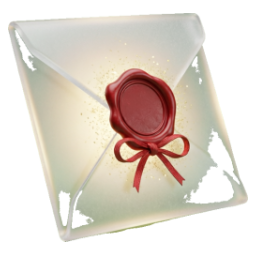
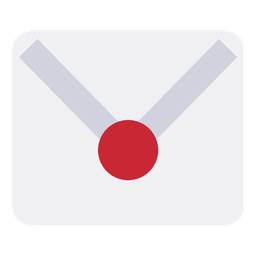
feat(h5): 「邀请」按钮改成透明灰板 + 白字，classic 那张邀请图标换成平面信封
用户口径：「邀请两个字的背景边框做成透明灰色，图标再换一个，平面的」。
板色 rgb(46,46,52)/α=0.62 与字色只能是浅色都是量出来的：这颗按钮整块压在海报亮区
（覆盖范围内底图亮度 L=0.005~0.797），中灰/浅灰配白字数学上过不了 AA，深红字在这块板上只有 1.00~1.57:1。
不写 backdrop-filter，让那串对比度读数就是逐像素真值；新增的 1px 边框由四个方向内边距各收 1px 补回去，
所以按钮外沿与改之前是同一个盒子（headless Chrome 实测 66.45x38.38 vs 66.55x38.47 设备px）。

图标「平面的」拆成两条机器口径：4bit 量化色阶层数 54（被换掉的立体磨砂那张 229）、
前 8 大色占墨迹 94.9%（那张 0.76%）；出图脚本 qa/gen_flat_invite_icon.py 一并入库，跑一遍字节复现。

测试：invite-banner-art.spec.js 17→20（旧的「按钮保持平台主红」翻成「一出现就该红」+ 三条新钉），
invite-icon-theme.spec.js 26→29。H5 207 例 / 20 文件、后台 167、后端 unit 269/1760 当场全绿；
反证 14 档逐档只红在点名用例，跑完 6 个文件 md5 逐位 SAME。详见 RUNBOOK §7.44。

diff --git a/sinan-art-source/tests/invite-banner-art.spec.js b/sinan-art-source/tests/invite-banner-art.spec.js
@@ -16,6 +16,20 @@ import { resolve } from 'node:path'
  *   · 标题行盒内最坏 18.46:1、副标行盒内最坏 8.25:1；§7.42 旧渲染基线 8.28:1 / 3.32:1 ⇒ 只升不降
  *   · 图里「白字对比掉到 4.5:1 以下」的最左列：标题行 x=236、副标行 x=226 ⇒ 副标再加一个字就踩亮区
  *
+ * 2026-10-16 再改一处（RUNBOOK §7.44）：那颗「邀请」按钮从 #C00000 实底 + 白字换成**透明灰 + 白字**。
+ * 中途我先按「液态玻璃白 + 深红字」做过一版（α=0.85 那组数字见台账），用户随后把口径改成"透明灰色"，
+ * 于是那版连同 backdrop-filter 一起被换掉 —— 两版的旧钉都留在下面，写成"一出现就该红"。
+ * 灰板压在深色海报上，按钮覆盖范围内底图亮度跨度是 L=0.005~0.797（右端是玉璧高光），所以：
+ *   白字最坏点（逐像素，不带 blur）：α=0.55→4.20、0.58→4.51、0.62→4.98、0.65→5.37（AA 线 4.5）
+ *   按钮整框（含上下沿）最坏 4.64:1；把按钮往左扩到 x=200 各列仍 ≥4.5 ⇒ 标签加到 5 字以内不必重量
+ *   同一个合成下深红 #C00000 字最坏只有 1.00~1.57:1 ⇒ 透明灰底上白字是唯一站得住的选择
+ *   旧渲染是 6.48:1（实底红 + 白字，与底图无关）⇒ 换透明灰后降到 4.98:1，仍过 AA 但这是**降**，台账里写明
+ *
+ * 上面那几行是**离线 GD** 按 CSS 几何合成的读数。落位后又用 headless Chrome（CDP，390x844/dpr2）走真排版复量了一遍：
+ * 「邀请」两字的真实行盒（29x16 设备px）上最坏 **5.12:1**，整块板子外接框上最坏 **4.69:1** —— 两套独立实现互相对上，才算数。
+ * 复量还推翻了我自己写的一条注释：只把横向内边距从 18 收到 17 时，外沿比改之前**高 2.6 设备px**（上下两条边框没补回来），
+ * 所以内边距是**四个方向各收 1px**（`7px 17px`），改完之后新旧外沿差 0.1px。
+ *
  * jsdom 量不到 ::before 伪元素，也量不到 px→vw 之后的长度，所以这里钉的是参数和文案，实测数字看台账。
  */
 
@@ -110,8 +124,40 @@ describe('文字改成压在深底上的浅色：旧深红/棕色不许改回来
     expect(code(BANNER)).not.toMatch(/rgba\(\s*80,\s*50,\s*20/)
   })
 
-  it('按钮保持平台主红：换深色海报没把它一起改没', () => {
-    expect(code(blockOf('&__btn'))).toMatch(/background:\s*#C00000/)
+  it('按钮不再是一整块实色：既不许回到 #C00000 实底，也不许做成实色灰块', () => {
+    const btn = code(blockOf('&__btn'))
+    // §7.43 的「实色红底 + 白字」和这一轮中途试过的「乳白玻璃 + 深红字」都翻成方向钉：出现就该红
+    expect(btn, '按钮底色回到实色红 = 透明灰口径被推回去').not.toMatch(/background:\s*#C00000/)
+    expect(btn, '底色必须是 rgba 半透明，α=1 就成实色灰块了').toMatch(/background:\s*rgba\(/)
+    expect(btn, '乳白玻璃底（rgba(255,255,255,.x)）已经不是本轮口径').not.toMatch(/background:\s*rgba\(255,\s*255,\s*255/)
+    expect(btn, '深红字压在透明灰上只有 1.00~1.57:1，等于看不见').not.toMatch(/color:\s*#C00000/i)
+  })
+
+  it('透明灰这块板：中性深灰 + α≥0.62 + 1px 半透明亮边 + 内高光', () => {
+    const btn = code(blockOf('&__btn'))
+    const m = /background:\s*rgba\(\s*46,\s*46,\s*52,\s*([\d.]+)\s*\)/.exec(btn)
+    expect(m, '按钮底不是那个量出来的中性灰 rgb(46,46,52)').not.toBeNull()
+    const alpha = Number(m[1])
+    // 下界 0.62：白字最坏点 α=0.58 只有 4.51:1、0.62 才 4.98:1（AA 线 4.5，按钮整框最坏 4.64:1）
+    expect(alpha, 'α 低于 0.62 就踩破 4.5:1（底下海报右端有玉璧高光，最坏点在按钮上沿）').toBeGreaterThanOrEqual(0.62)
+    expect(alpha, 'α=1 就不是"透明"灰了').toBeLessThan(1)
+    expect(btn).toMatch(/color:\s*#FFFFFF\b/i)
+    expect(btn).toMatch(/border:\s*1px\s+solid\s+rgba\(255,\s*255,\s*255,\s*[\d.]+\)/)
+    expect(btn).toMatch(/box-shadow:[^;]*inset/)
+  })
+
+  it('按钮这块不靠 backdrop-filter 撑可读性：写了 blur，上面那串对比度数字就不再是真机读数', () => {
+    expect(code(blockOf('&__btn'))).not.toMatch(/backdrop-filter/)
+  })
+
+  it('按钮外沿没被新边框撑大：1px 边框 + 四个方向内边距各收 1px，海报上被它盖住的那片像素区域没变', () => {
+    const btn = code(blockOf('&__btn'))
+    // 竖向从 8 收成 7、横向从 18 收成 17（各让 1px 给新边框）。写成简写整串是因为 px() 只取第一个数。
+    // 只收左右那一版（8px 17px）浏览器实测外沿比旧版高 2.6 设备px —— 上下两条边框没补回来，
+    // 被盖住的海报区域会长一圈，量对比度用的几何前提就废了，所以这里连 7 一起钉死。
+    expect(btn, '按钮内边距应是 7px 17px（四个方向各让 1px 给边框，外沿才是同一个盒子）').toMatch(/padding:\s*7px\s+17px/)
+    expect(btn).toMatch(/border:\s*1px\s+solid/)
+    expect(px(btn, 'font-size')).toBe(14)
   })
 })
 

diff --git a/sinan-art-source/tests/invite-icon-theme.spec.js b/sinan-art-source/tests/invite-icon-theme.spec.js
@@ -14,6 +14,11 @@ import zlib from 'node:zlib'
  * 主题 type 的 'svg' 只是标签。邀新卡原来是五套主题里唯一一个还在吃 AppIcon 矢量图的功能入口，
  * 所以「换成位图」这件事 = 给五个主题的 features.invite 各补一条 { type:'image' }。
  *
+ * 2026-10-16 §7.44 又改一次：用户要「图标再换一个，平面的」，并明确只换**现在看到的这一张**
+ * （= classic 家族的 modern-invite.png），另四套仍留立体/磨砂那张。所以这一节新增的三条钉
+ * 只对着 modern-invite.png 生效：平面度（色阶层数 + 纯色集中度）、墨迹体量不掉档、主体仍是家族浅灰。
+ * 「五套都要位图」那条口径没变，五张互不相同也没变。
+ *
  * 位图带不带透明通道、有没有把绿幕一起抠进来，jsdom 量不到，这里直接解 PNG 头 + 解 IDAT 自己数，
  * 这样「图标糊成一坨不透明方块」「边上镶一圈荧光绿」这类缺陷能在 CI 里红，而不是等人眼看。
  */
@@ -101,6 +106,45 @@ function alphaProfile(file) {
   return { w, h, solidRatio: solid / n, softRatio: translucent / n, greenRatio: green / n }
 }
 
+// ---------------- 平面度与墨迹体量（§7.44 起 classic 那张换成平面图标） ----------------
+/**
+ * 「平面的」不能靠人眼验收，这里翻译成两条能数的口径：
+ *   · 色阶层数：把墨迹按每通道 4bit 量化后有几种 —— 平面 = 少数几个纯色块，立体 = 连续渐变
+ *   · 纯色集中度：最常见的 8 个精确颜色盖了多少比例的墨迹 —— 平面高、立体低
+ * 两条阈值都是当场量出来对照后取的中段（见 RUNBOOK §7.44）：
+ *   新平面图 modern-invite = 54 阶 / 94.9%，被它替换掉的立体图 = 229 阶 / 0.8% ⇒ 中间隔着 4 倍，不会误伤
+ */
+function flatProfile (file) {
+  const { w, h, px } = decodeRgba(file)
+  const q = new Map(); const exact = new Map()
+  let ink = 0
+  for (let i = 0; i < w * h * 4; i += 4) {
+    if (px[i + 3] <= 51) continue
+    ink++
+    const qk = (px[i] >> 4 << 8) | (px[i + 1] >> 4 << 4) | (px[i + 2] >> 4)
+    q.set(qk, (q.get(qk) || 0) + 1)
+    const ek = (px[i] << 16) | (px[i + 1] << 8) | px[i + 2]
+    exact.set(ek, (exact.get(ek) || 0) + 1)
+  }
+  const top8 = [...exact.values()].sort((a, b) => b - a).slice(0, 8).reduce((s, v) => s + v, 0)
+  return { ink, q4: q.size, top8Ratio: top8 / ink }
+}
+
+/** 墨迹外接框：画布同是 256，但墨迹只占一半的图标在 28px 里会明显比兄弟小一圈 */
+function inkBox (file) {
+  const { w, h, px } = decodeRgba(file)
+  let minx = w, miny = h, maxx = -1, maxy = -1
+  for (let y = 0; y < h; y++) {
+    for (let x = 0; x < w; x++) {
+      if (px[(y * w + x) * 4 + 3] > 51) {
+        if (x < minx) minx = x; if (x > maxx) maxx = x
+        if (y < miny) miny = y; if (y > maxy) maxy = y
+      }
+    }
+  }
+  return { w: maxx - minx + 1, h: maxy - miny + 1 }
+}
+
 // ---------------- 主题表本身 ----------------
 const storeSrc = readFileSync(resolve(ROOT, 'src/stores/iconTheme.js'), 'utf8').replace(/\r\n/g, '\n')
 const sfcSrc = readFileSync(resolve(ROOT, 'src/views/User.vue'), 'utf8').replace(/\r\n/g, '\n')
@@ -182,6 +226,33 @@ describe('invite 位图本体：透明、没镶绿幕、够清晰、别拖慢「
       expect(statSync(file).size).toBeLessThanOrEqual(80 * 1024)
     })
   }
+})
+
+describe('§7.44：classic 那张 modern-invite 换成平面图标，另外四套本轮没动', () => {
+  const file = TAB('modern-invite.png')
+
+  it('它是平面的：色阶层数少、纯色集中（立体磨砂那张实测 229 阶 / 0.8%，会在这里红）', () => {
+    const p = flatProfile(file)
+    expect(p.q4, `量化后还有 ${p.q4} 档色阶 = 图里在走渐变，不是平面`).toBeLessThanOrEqual(100)
+    expect(p.top8Ratio, `最常见的 8 个颜色只盖了 ${(p.top8Ratio * 100).toFixed(1)}% 的墨迹`).toBeGreaterThanOrEqual(0.8)
+  })
+
+  it('墨迹体量没掉档：外接框长边 ≥ 同家族 calendar 墨迹长边的 85%（画布都是 256，光看文件尺寸看不出变小）', () => {
+    const inv = inkBox(file)
+    const cal = inkBox(TAB('modern-calendar.png'))
+    expect(Math.max(inv.w, inv.h) / Math.max(cal.w, cal.h), `墨迹长边 ${Math.max(inv.w, inv.h)} vs calendar ${Math.max(cal.w, cal.h)}`).toBeGreaterThanOrEqual(0.85)
+  })
+
+  it('用的还是家族那套浅灰主体色：深色卡的玻璃 tile 上不能出现一块黑底', () => {
+    const { w, h, px } = decodeRgba(file)
+    let lit = 0, ink = 0
+    for (let i = 0; i < w * h * 4; i += 4) {
+      if (px[i + 3] <= 51) continue
+      ink++
+      if (px[i] > 180 && px[i + 1] > 180 && px[i + 2] > 180) lit++
+    }
+    expect(lit / ink, `只有 ${(lit / ink * 100).toFixed(0)}% 的墨迹是亮色，压在深色卡上会糊成一团`).toBeGreaterThan(0.5)
+  })
 })
 
 describe('User.vue 的接线：拿到 image 分支就渲染 <img>，拿不到才退回 AppIcon', () => {

diff --git a/sinan-art-source/src/views/User.vue b/sinan-art-source/src/views/User.vue
@@ -153,8 +153,23 @@ function logout() {
   &__title { font-size: 15px; font-weight: 700; color: #FFFFFF; letter-spacing: 0.5px; text-shadow: 0 1px 2px rgba(0,0,0,0.55); }
   &__sub { font-size: 12px; color: rgba(255,255,255,0.85); text-shadow: 0 1px 2px rgba(0,0,0,0.5); }
   &__btn {
-    border: none; cursor: pointer; background: #C00000; color: #fff; font-size: 14px;
-    padding: 8px 18px; border-radius: $radius-pill; position: relative; z-index: 1;
+    // 透明灰按钮（2026-10-16 §7.44：用户把上一条口径「液态玻璃白 + 深红字」改成「透明灰」）。
+    // 基准色 rgb(46,46,52)、α=0.62 都是量出来的：这颗按钮整个压在深色海报上，
+    // 底下那片海报亮度跨度 L=0.005~0.797（右端有玉璧高光），白字最坏点：
+    //   α=0.58 → 4.51:1、0.62 → 4.98:1、0.65 → 5.37:1（AA 线 4.5）
+    // 这三个数是离线 GD 按 CSS 几何合成量的；落位后又用 headless Chrome 走真排版复量（CDP，390x844/dpr2）：
+    // 「邀请」两字的行盒（29x16 设备px）上最坏 5.12:1，整块板子外接框上最坏 4.69:1 —— 两个口径都过 4.5。
+    // 这里**不写 backdrop-filter**：不糊底就没有"这台机器的 WebView 支不支持 blur"的争议，
+    // 上面那串数字即真机逐像素读数。代价是底图细节会透出来一点，这正是"透明灰"要的观感。
+    // 字色只能是浅色：同一组合成下 #C00000 深红字的最坏点只有 1.00~1.57:1，等于看不见。
+    border: 1px solid rgba(255, 255, 255, 0.32); cursor: pointer;
+    background: rgba(46, 46, 52, 0.62); color: #FFFFFF; font-size: 14px;
+    // 内边距**四个方向各收 1px**，把新增的 1px 边框补回去：外沿和改之前是同一个盒子
+    // （实测 66.45x38.38 设备px，改之前 66.55x38.47，差 0.1px = 亚像素噪声）。
+    // 只收左右那一版（padding: 8px 17px）也量过：高出来的 2.6px 就是上下两条边框，
+    // 被它盖住的海报区域会往外长一圈，上面那串对比度读数的几何前提就不成立了。
+    padding: 7px 17px; border-radius: $radius-pill; position: relative; z-index: 1;
+    box-shadow: inset 0 1px 0 rgba(255, 255, 255, 0.18);
   }
 }
 

diff --git a/qa/gen_flat_invite_icon.py b/qa/gen_flat_invite_icon.py
@@ -1,0 +1,59 @@
+"""
+平面的「邀请」图标生成器（RUNBOOK §7.44）
+
+为什么这个脚本要入库，而 §7.43 那批 AI 生成图的脚本没有：
+  · 那张深色海报底图是 AI 出的，原图不留在仓库里，脚本留着也复现不出同一张图（只能复现「裁切+编码」那一步）；
+  · 这张平面图标是**用几何图形画出来的**，三个色块 + 两条折线 + 一个圆，脚本本身就是它的源文件。
+    没有这个脚本，下次有人想调粗封口 V、换封蜡颜色，只能重新猜坐标。
+
+用法（本机 PIL 只有 7.2.0，没有 numpy）：
+  "C:\\Program Files\\python\\python" qa/gen_flat_invite_icon.py
+  产物默认落在 sinan-art-source/public/images/tab/modern-invite.png（覆盖前老版本在 git 里，直接 git show 取回）
+
+画布约定（对着同家族 modern-calendar 量的，别单独改这张）：
+  256x256 方画布、透明底；墨迹外接框 233x197（长边 91% 画布，calendar 是 94%）
+  平面度实测：4bit 量化 54 档色阶、最常见 8 色覆盖 94.9% 墨迹
+  （被它替换掉的立体那张是 229 档 / 0.8%，所以 tests/invite-icon-theme.spec.js 里的 100 档与 80% 两条线不会误伤）
+"""
+import os
+import sys
+
+from PIL import Image, ImageDraw
+
+S = 4  # 4 倍超采样再缩回 256：斜边自带抗锯齿，同时每个色块内部保持纯色（平面图的命门是"内部不许有渐变"）
+
+BODY = (240, 240, 243, 255)  # 家族主体色，取自 modern-calendar / modern-lottery 的大块浅灰
+FLAP = (208, 210, 222, 255)  # 第二色块：封口分面，只压暗一档，不做高光/阴影
+SEAL = (201, 39, 52, 255)    # 封蜡红：modern-lottery 上那颗点缀就是同一个红
+
+OUT = os.path.join(os.path.dirname(__file__), os.pardir,
+                   'sinan-art-source', 'public', 'images', 'tab', 'modern-invite.png')
+
+
+def rounded_rect(d, z, box, rad, fill):
+    """PIL 7.2 没有 ImageDraw.rounded_rectangle（8.2 才有），自己用两个矩形 + 四个圆拼
+    注意坐标要经过 z() 放大到 4x 画布——漏掉这一步，主体会画在 1024 画布的左上角一小块里"""
+    x0, y0, x1, y1 = box
+    d.rectangle(z(x0 + rad, y0, x1 - rad, y1), fill=fill)
+    d.rectangle(z(x0, y0 + rad, x1, y1 - rad), fill=fill)
+    for cx, cy in [(x0, y0), (x1 - 2 * rad, y0), (x0, y1 - 2 * rad), (x1 - 2 * rad, y1 - 2 * rad)]:
+        d.ellipse(z(cx, cy, cx + 2 * rad, cy + 2 * rad), fill=fill)
+
+
+def build():
+    im = Image.new('RGBA', (256 * S, 256 * S), (0, 0, 0, 0))
+    d = ImageDraw.Draw(im)
+    z = lambda *a: [v * S for v in a]
+
+    rounded_rect(d, z, (12, 30, 244, 226), 20, BODY)                                # 信封主体
+    d.line(z(28, 48, 128, 150, 228, 48), fill=FLAP, width=26 * S, joint='curve')      # 封口 V（纯分面）
+    d.ellipse(z(98, 120, 158, 180), fill=SEAL)                                        # 封蜡红点压在 V 顶点
+
+    return im.resize((256, 256), Image.LANCZOS)
+
+
+if __name__ == '__main__':
+    out = os.path.normpath(sys.argv[1] if len(sys.argv) > 1 else OUT)
+    img = build()
+    img.save(out, optimize=True)
+    print('wrote %s  %dx%d  %s  %d bytes' % (out, img.size[0], img.size[1], img.mode, os.path.getsize(out)))
